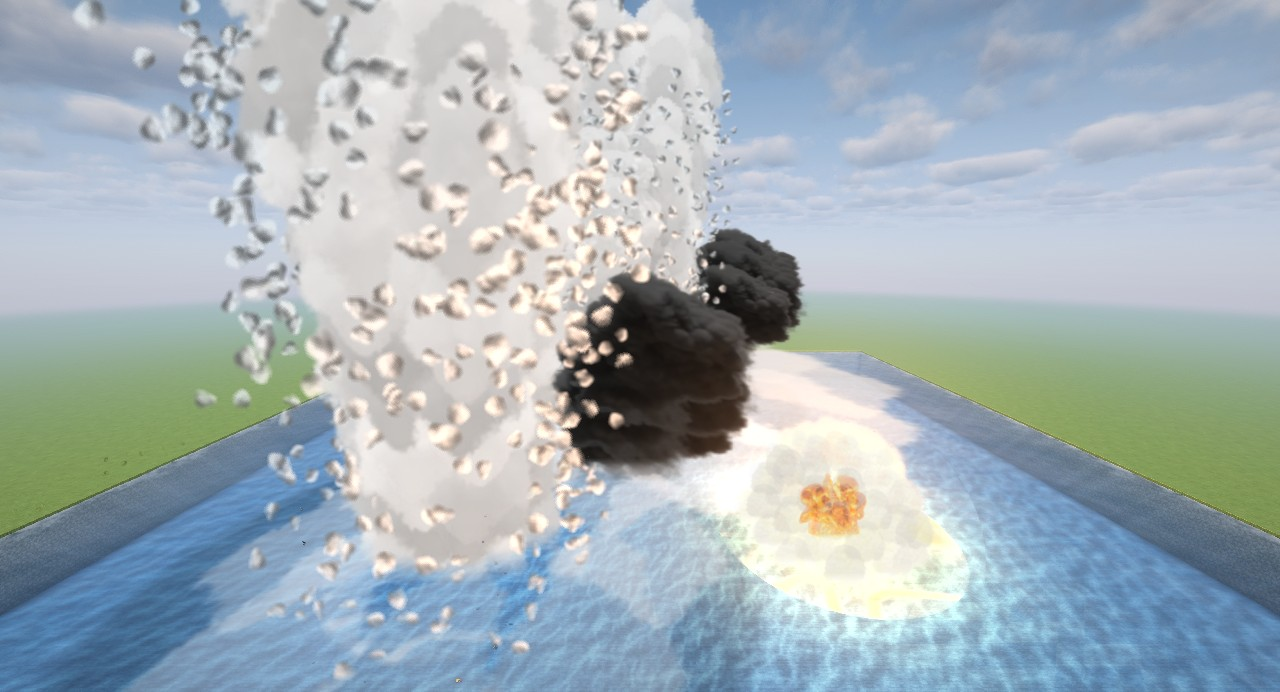
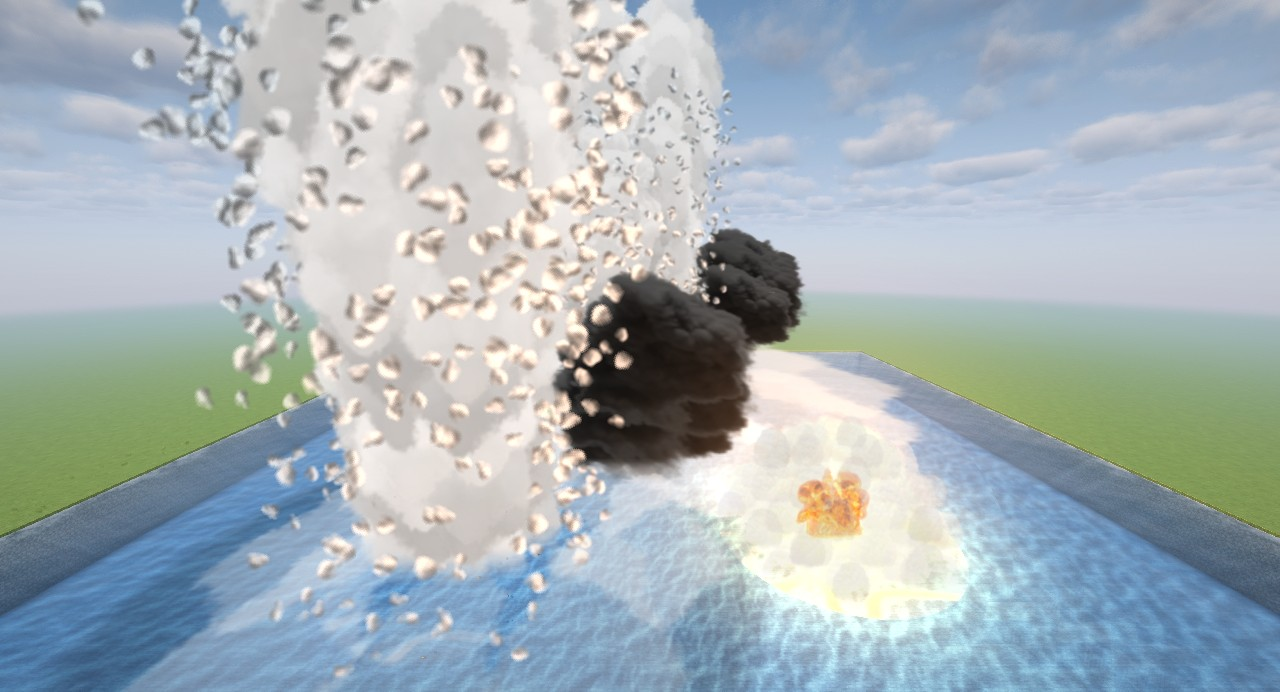
WT2 evidence on 2c139a5e8

diff --git a/README.md b/README.md
@@ -5,5 +5,5 @@ Sandbox (`tools/sandbox.sh`, Iris + the host's shaderpack), same commands on bot
 - grad-day: `raid 12 15 1 rocket water`, `--cam '30 14 0 6'` (12 Grad shells into the pond within 15 m, 1 s apart; camera 30 m away, 14 m up), frames at 3/6/12/20 s from the first blast.
 - water-day-50: `blast drone 1 water`, `--cam '50 18 0 8'`, frames at 0.1/1/3/10/30 s.
 
-Top row `main` 5da7f6c (mod sources of origin/main, same sandbox), bottom row the PR head d03506c. Full frames in `frames/`.
+Top row `main` 5da7f6c (mod sources of origin/main, same sandbox), bottom row the PR head 2c139a5e8. Full frames in `frames/`.
 Layer timing from the `SANDBOX shot` lines (62 fps, vsync): salvo layer CPU 1.0–1.2 ms on main, 1.3–1.7 ms on the PR; GPU 0.9–3.2 ms on main, 1.3–2.8 ms on the PR.
